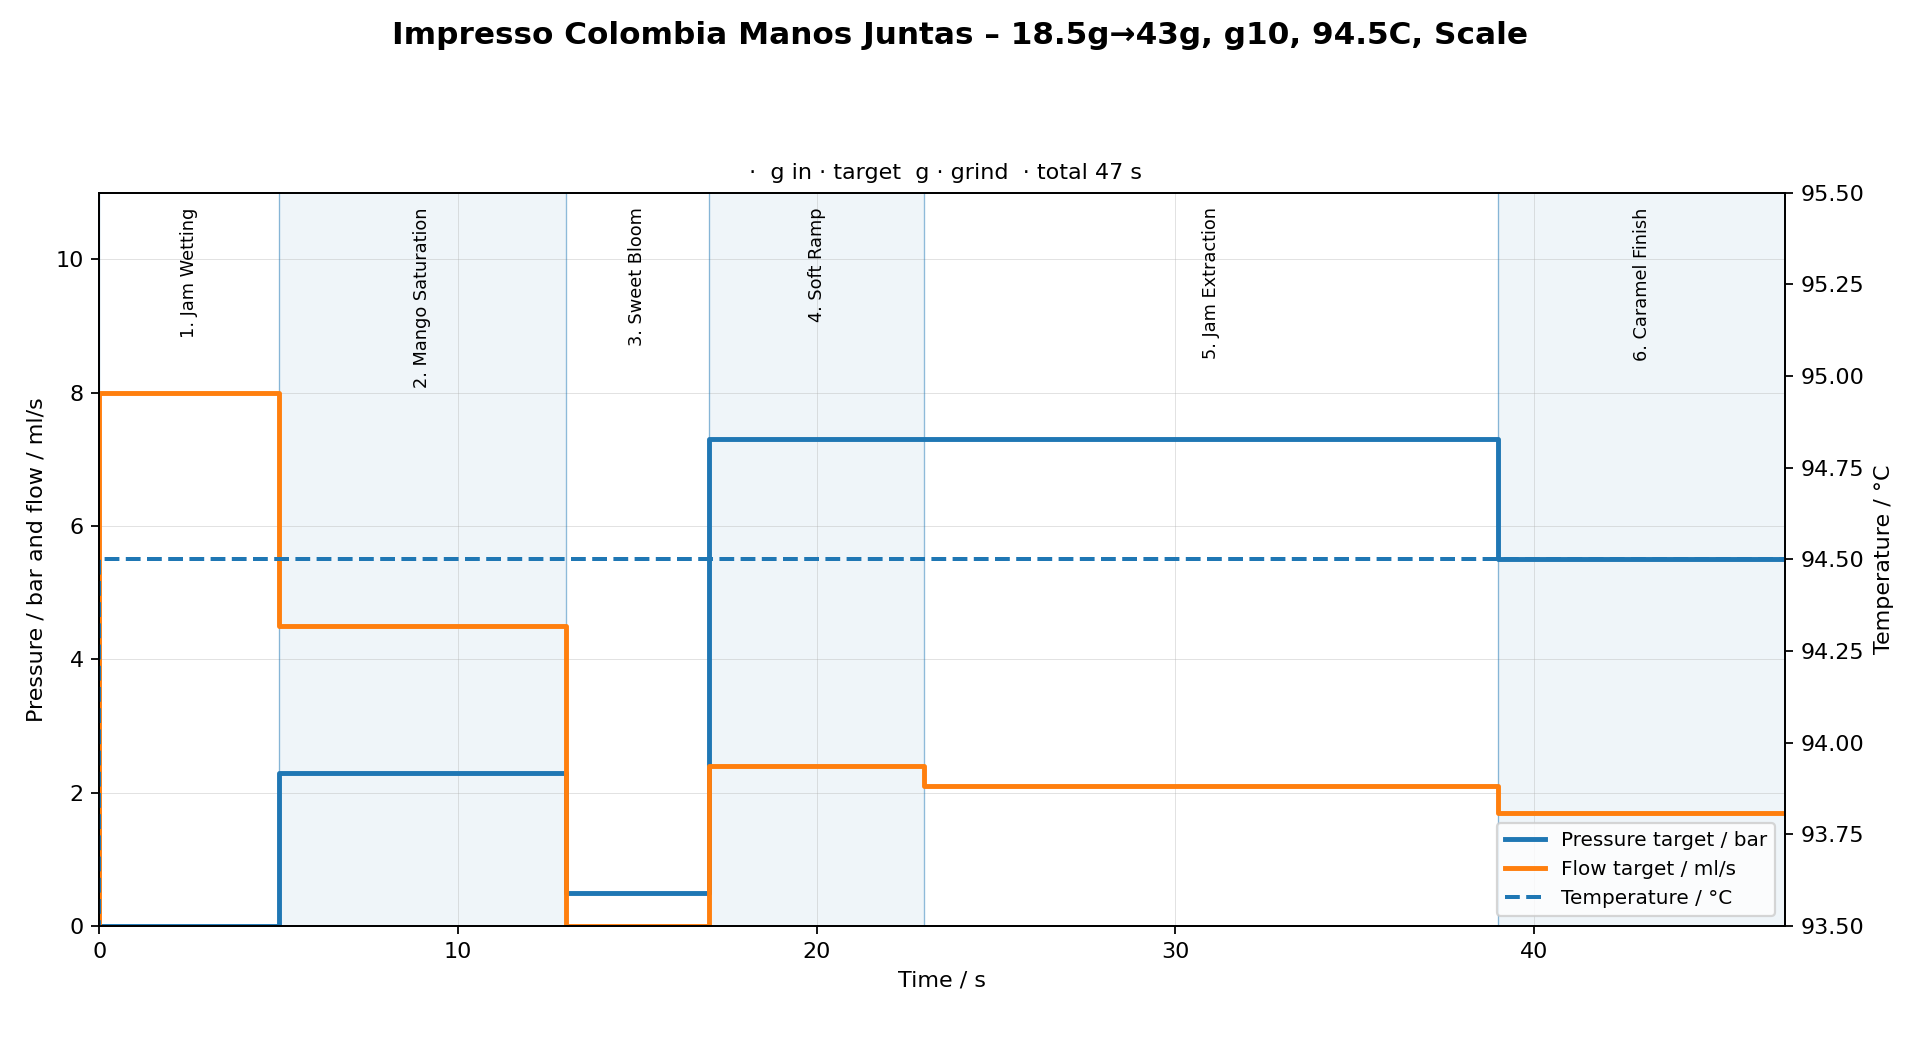
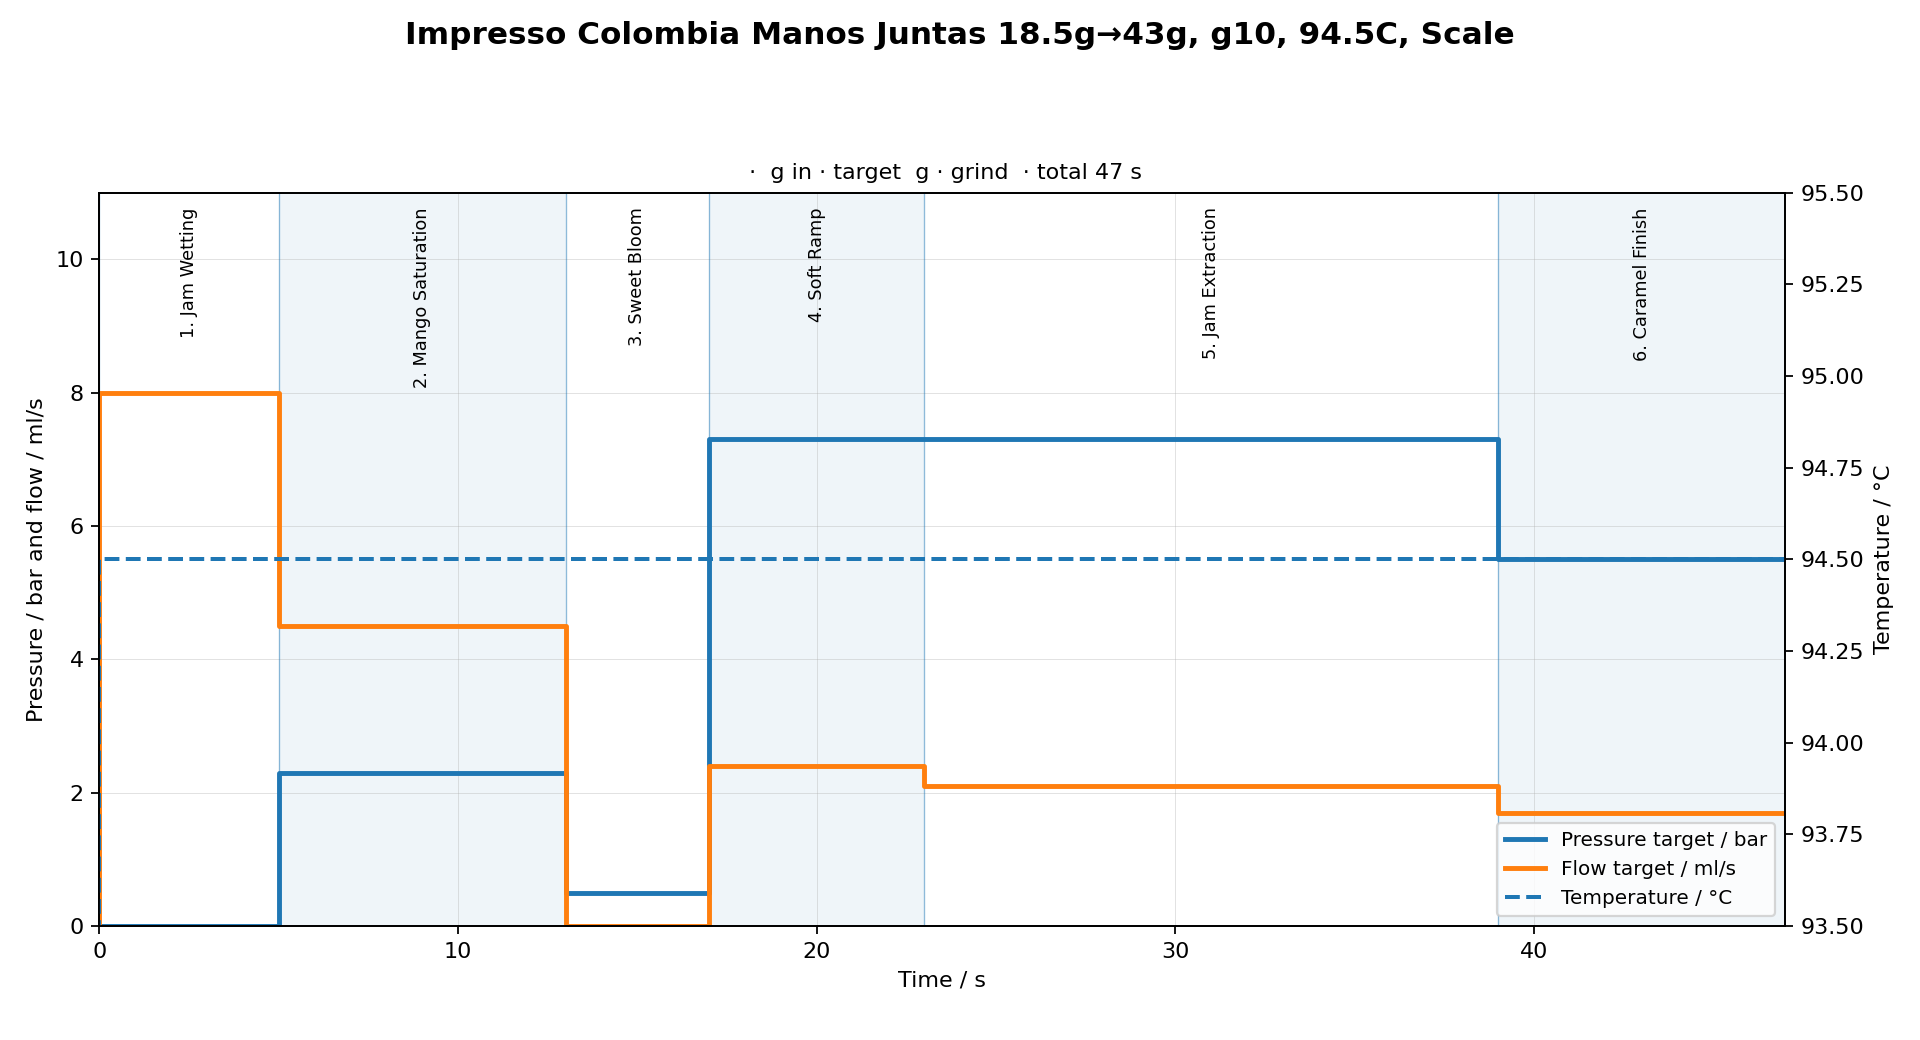
no message

Changed region(s): [[0.2188, 0.0, 0.8125, 0.0615]]

diff --git a/index.html b/index.html
@@ -636,7 +636,7 @@ h3.sh {
         <div class="stat"><span class="stat-val">88 °C</span><span class="stat-key">extr. hő</span></div>
         <div class="stat"><span class="stat-val">25–40 s</span><span class="stat-key">idő</span></div>
       </div>
-      <div class="chart"><img src="profiles/adaptive v2/profile-adapt-profile.png" alt="Adaptive v2 grafikon"></div>
+      <div class="chart"><img src="profiles/adaptive-v2/profile-adapt-profile.png" alt="Adaptive v2 grafikon"></div>
       <div class="phases">
         <div class="phase-row"><span class="ph-name">Prefill</span><span class="ph-cat">PI</span><span class="ph-dur">≤5 s</span><div class="bar-track"><div class="bar-fill flow" style="width:55%"></div></div></div>
         <div class="phase-row"><span class="ph-name">Fill</span><span class="ph-cat">PI</span><span class="ph-dur">≤12 s</span><div class="bar-track"><div class="bar-fill flow" style="width:55%"></div></div></div>
@@ -646,7 +646,7 @@ h3.sh {
         <div class="phase-row"><span class="ph-name">Extraction</span><span class="ph-cat">brew</span><span class="ph-dur">≤60 s</span><div class="bar-track"><div class="bar-fill flow" style="width:65%"></div></div></div>
       </div>
       <div class="card-foot">
-        <a class="dl" href="profiles/adaptive v2/profile-adapt.json" download>↓ JSON</a>
+        <a class="dl" href="profiles/adaptive-v2/profile-adapt.json" download>↓ JSON</a>
         <a class="dl" href="#" onclick="openModal('adaptive-recipe');return false;">recept</a>
         <a class="dl" href="#" onclick="openModal('adaptive-changelog');return false;">changelog</a>
       </div>
@@ -989,11 +989,11 @@ const MD_CONTENT = {
   },
   'adaptive-recipe': {
     title: 'Adaptive v2 – Recept',
-    file: 'profiles/adaptive v2/adaptive-v2-recipe.md'
+    file: 'profiles/adaptive-v2/adaptive-v2-recipe.md'
   },
   'adaptive-changelog': {
     title: 'Adaptive v2 – Changelog',
-    file: 'profiles/adaptive v2/adaptive-v2-changelog.md'
+    file: 'profiles/adaptive-v2/adaptive-v2-changelog.md'
   },
   'caturron-recipe': {
     title: 'Twenty Eight Caturron – Recept',

diff --git a/SUMMARY.md b/SUMMARY.md
@@ -30,6 +30,7 @@
 | 9 Bar Espresso | Klasszikus 9 baros baseline | [profile-9bar.json](profiles/9-bar/profile-9bar.json) | [9-bar-recipe.md](profiles/9-bar/9-bar-recipe.md) |
 | Cremina lever machine | Sötét pörkölésű, testes, édes, leveres espresso | [profile-lever.json](profiles/cremina-lever/profile-lever.json) | [cremina-lever-recipe.md](profiles/cremina-lever/cremina-lever-recipe.md) |
 | Damian's LM Leva | Modern specialty, világos-közepes pörköléshez | [profile-lmleva.json](profiles/damians-lm-leva/profile-lmleva.json) | [damians-lm-leva-recipe.md](profiles/damians-lm-leva/damians-lm-leva-recipe.md) |
+| Adaptive v2 | Univerzális, adaptív preinfusion, light-to-medium pörköléshez | [profile-adapt.json](profiles/adaptive-v2/profile-adapt.json) | [adaptive-v2-recipe.md](profiles/adaptive-v2/adaptive-v2-recipe.md) |
 
 ---
 
@@ -70,6 +71,10 @@
 ### Damian's LM Leva
 
 ![Damian's LM Leva](profiles/damians-lm-leva/profile-lmleva-profile.png)
+
+### Adaptive v2
+
+![Adaptive v2](profiles/adaptive-v2/profile-adapt-profile.png)
 
 ---
 
@@ -135,11 +140,6 @@ profiles/
 │   ├── twenty-eight-caturron-profile.png
 │   ├── twenty-eight-caturron-recipe.md
 │   └── twenty-eight-caturron-changelog.md
-├── caturron/
-    ├── caturron-42s.json
-    ├── caturron-42s-scale-v4.json
-    ├── caturron-recipe.md
-    └── caturron-changelog.md
 ├── 9-bar/
 │   ├── profile-9bar.json
 │   ├── 9-bar-recipe.md
@@ -152,6 +152,10 @@ profiles/
 │   ├── profile-lmleva.json
 │   ├── damians-lm-leva-recipe.md
 │   └── damians-lm-leva-changelog.md
+├── adaptive-v2/
+│   ├── profile-adapt.json
+│   ├── adaptive-v2-recipe.md
+│   └── adaptive-v2-changelog.md
 equipment/
 └── setup.md
 templates/

diff --git a/CHANGELOG.md b/CHANGELOG.md
@@ -2,6 +2,18 @@
 
 ---
 
+## Repo konzisztencia takarítás (2026-07-17)
+
+### Removed
+
+- **`profiles/caturron/`** – törölve, mert a `profiles/twenty-eight-caturron/` pontos duplikátuma volt (a JSON leírás is erre utalt: "caturron könyvtár" változat). A `profiles/twenty-eight-caturron/caturron-flavor-42s-scale-v4.json` marad az egyetlen kanonikus verzió.
+
+### Changed
+
+- **`profiles/adaptive v2/` → `profiles/adaptive-v2/`** – a könyvtárnév szóközt tartalmazott, ami sérti a FILE_NAMING.md konvenciót; átnevezve, `index.html` hivatkozásai frissítve.
+- **`FILE_NAMING.md`** – eltávolítva a törölt `caturron/` könyvtárra és `caturron-42s.json` fájlra mutató, már érvénytelen példasorok.
+- **`README.md`, `SUMMARY.md`, `PROFILE_GALLERY.md`** – pótolva a hiányzó, nem kávé-specifikus profilok (9 Bar Espresso, Cremina lever machine, Damian's LM Leva, Adaptive v2) dokumentációja.
+
 ## V4 – Bluetooth Scale Edition (2026-07-06)
 
 ### Added

diff --git a/README.md b/README.md
@@ -46,6 +46,17 @@ A JSON profilokat a GaggiMate Web UI-ban lehet importálni: **Profiles → Impor
 
 ---
 
+## Általános (nem kávé-specifikus) profilok
+
+| Profil | Leírás | JSON | Grafikon | Recept |
+|---|---|---|---|---|
+| 9 Bar Espresso | Klasszikus 9 baros baseline | [`profile-9bar.json`](profiles/9-bar/profile-9bar.json) | [`profile-9bar-profile.png`](profiles/9-bar/profile-9bar-profile.png) | [`9-bar-recipe.md`](profiles/9-bar/9-bar-recipe.md) |
+| Cremina lever machine | Sötét pörkölésű, testes, édes, leveres espresso | [`profile-lever.json`](profiles/cremina-lever/profile-lever.json) | [`profile-lever-profile.png`](profiles/cremina-lever/profile-lever-profile.png) | [`cremina-lever-recipe.md`](profiles/cremina-lever/cremina-lever-recipe.md) |
+| Damian's LM Leva | Modern specialty, világos-közepes pörköléshez | [`profile-lmleva.json`](profiles/damians-lm-leva/profile-lmleva.json) | [`profile-lmleva-profile.png`](profiles/damians-lm-leva/profile-lmleva-profile.png) | [`damians-lm-leva-recipe.md`](profiles/damians-lm-leva/damians-lm-leva-recipe.md) |
+| Adaptive v2 | Univerzális, adaptív preinfusion, light-to-medium pörköléshez | [`profile-adapt.json`](profiles/adaptive-v2/profile-adapt.json) | [`profile-adapt-profile.png`](profiles/adaptive-v2/profile-adapt-profile.png) | [`adaptive-v2-recipe.md`](profiles/adaptive-v2/adaptive-v2-recipe.md) |
+
+---
+
 ## Bluetooth Scale Edition
 
 ### Támogatott hardver

diff --git a/PROFILE_GALLERY.md b/PROFILE_GALLERY.md
@@ -14,6 +14,10 @@
 
 ![Damian's LM Leva](profiles/damians-lm-leva/profile-lmleva-profile.png)
 
+### Adaptive v2
+
+![Adaptive v2](profiles/adaptive-v2/profile-adapt-profile.png)
+
 ---
 
 ## Time Based profilok (V3)

diff --git a/FILE_NAMING.md b/FILE_NAMING.md
@@ -21,7 +21,6 @@ Minden kávénak saját könyvtára van. A könyvtár neve a kávé rövid, URL-
 | `colombia-manos-juntas/` | Impresso Colombia Manos Juntas |
 | `kirinyaga/` | Impresso Kenya Kirinyaga PB |
 | `twenty-eight-caturron/` | Twenty Eight Finca el Recreo Caturron |
-| `caturron/` | (korábbi, márka nélküli változat) |
 
 **Szabályok:**
 - csak kisbetű
@@ -49,7 +48,6 @@ A GaggiMate Pro-ba importálható profil. Neve tartalmazza a kávé azonosítój
 | `kirinyaga-tea-rose-37s.json` | Kirinyaga, Tea Rose profil, 37 s |
 | `kirinyaga-37s.json` | Kirinyaga, 37 s (korábbi verzió) |
 | `caturron-flavor-42s.json` | Caturron, Flavor profil, 42 s |
-| `caturron-42s.json` | Caturron, 42 s (korábbi verzió) |
 
 **Szabályok:**
 - Ha egy könyvtárban több JSON van, mindegyik egyedi nevet kap.